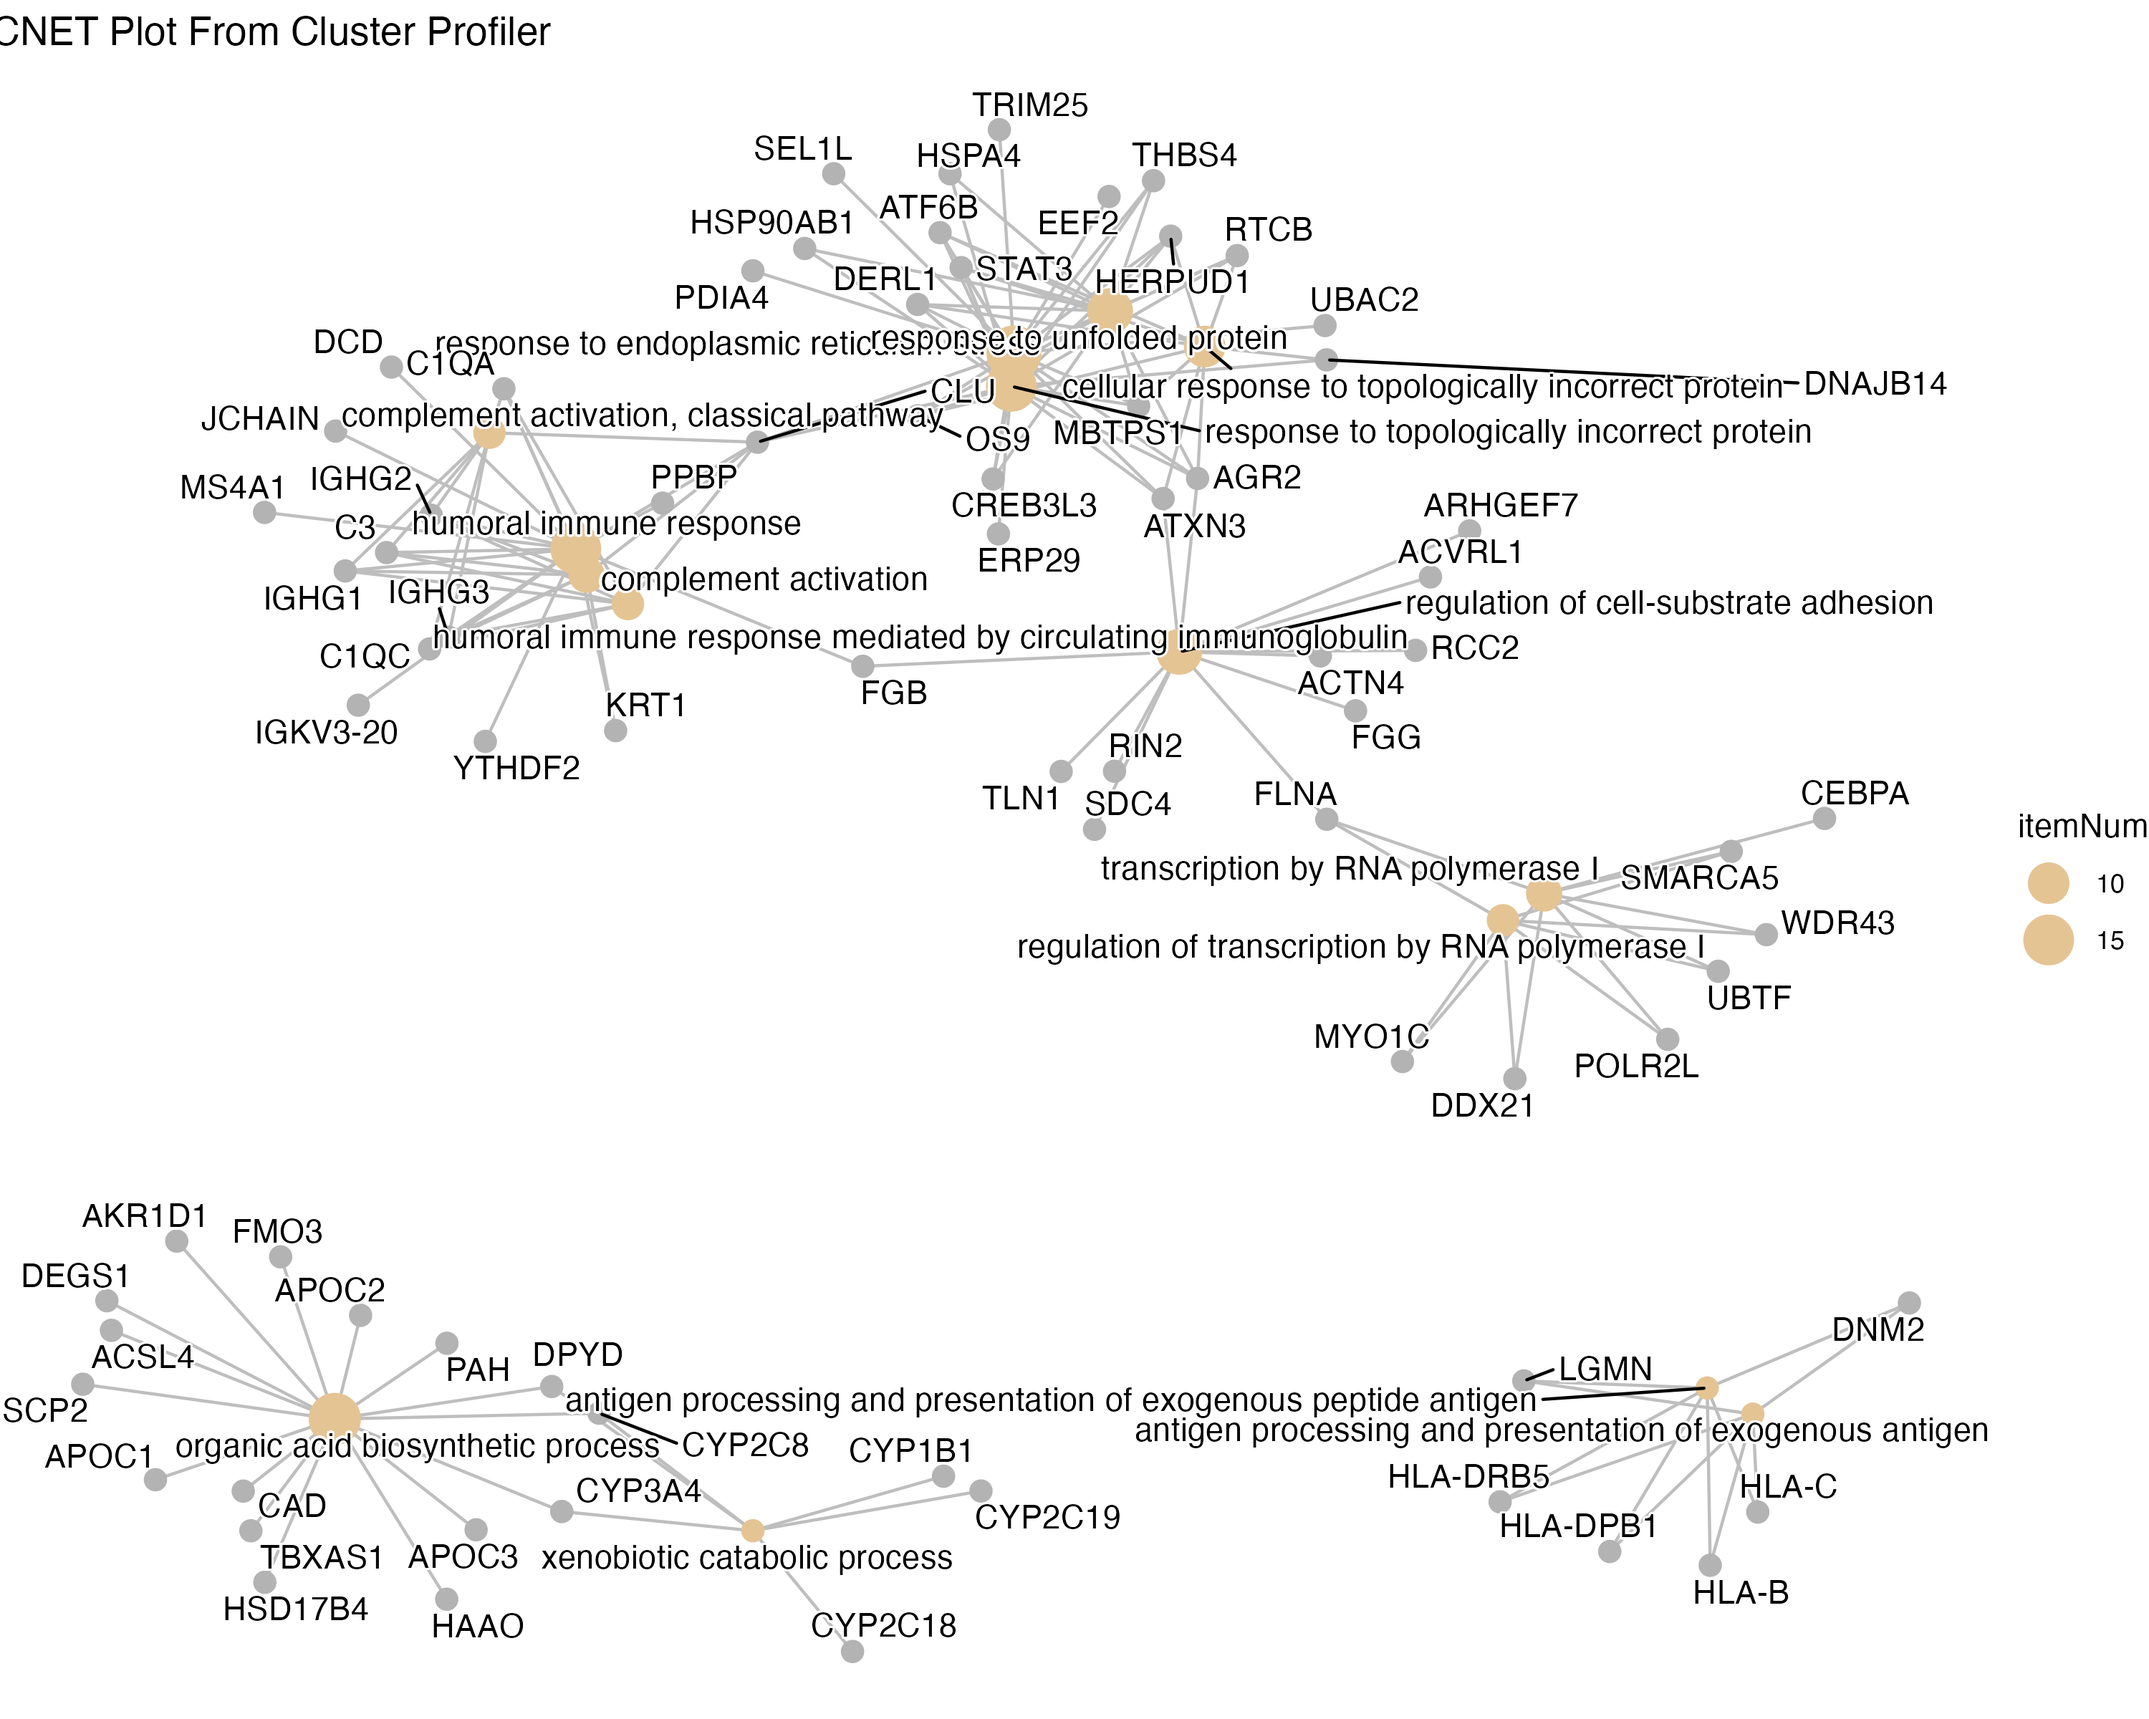
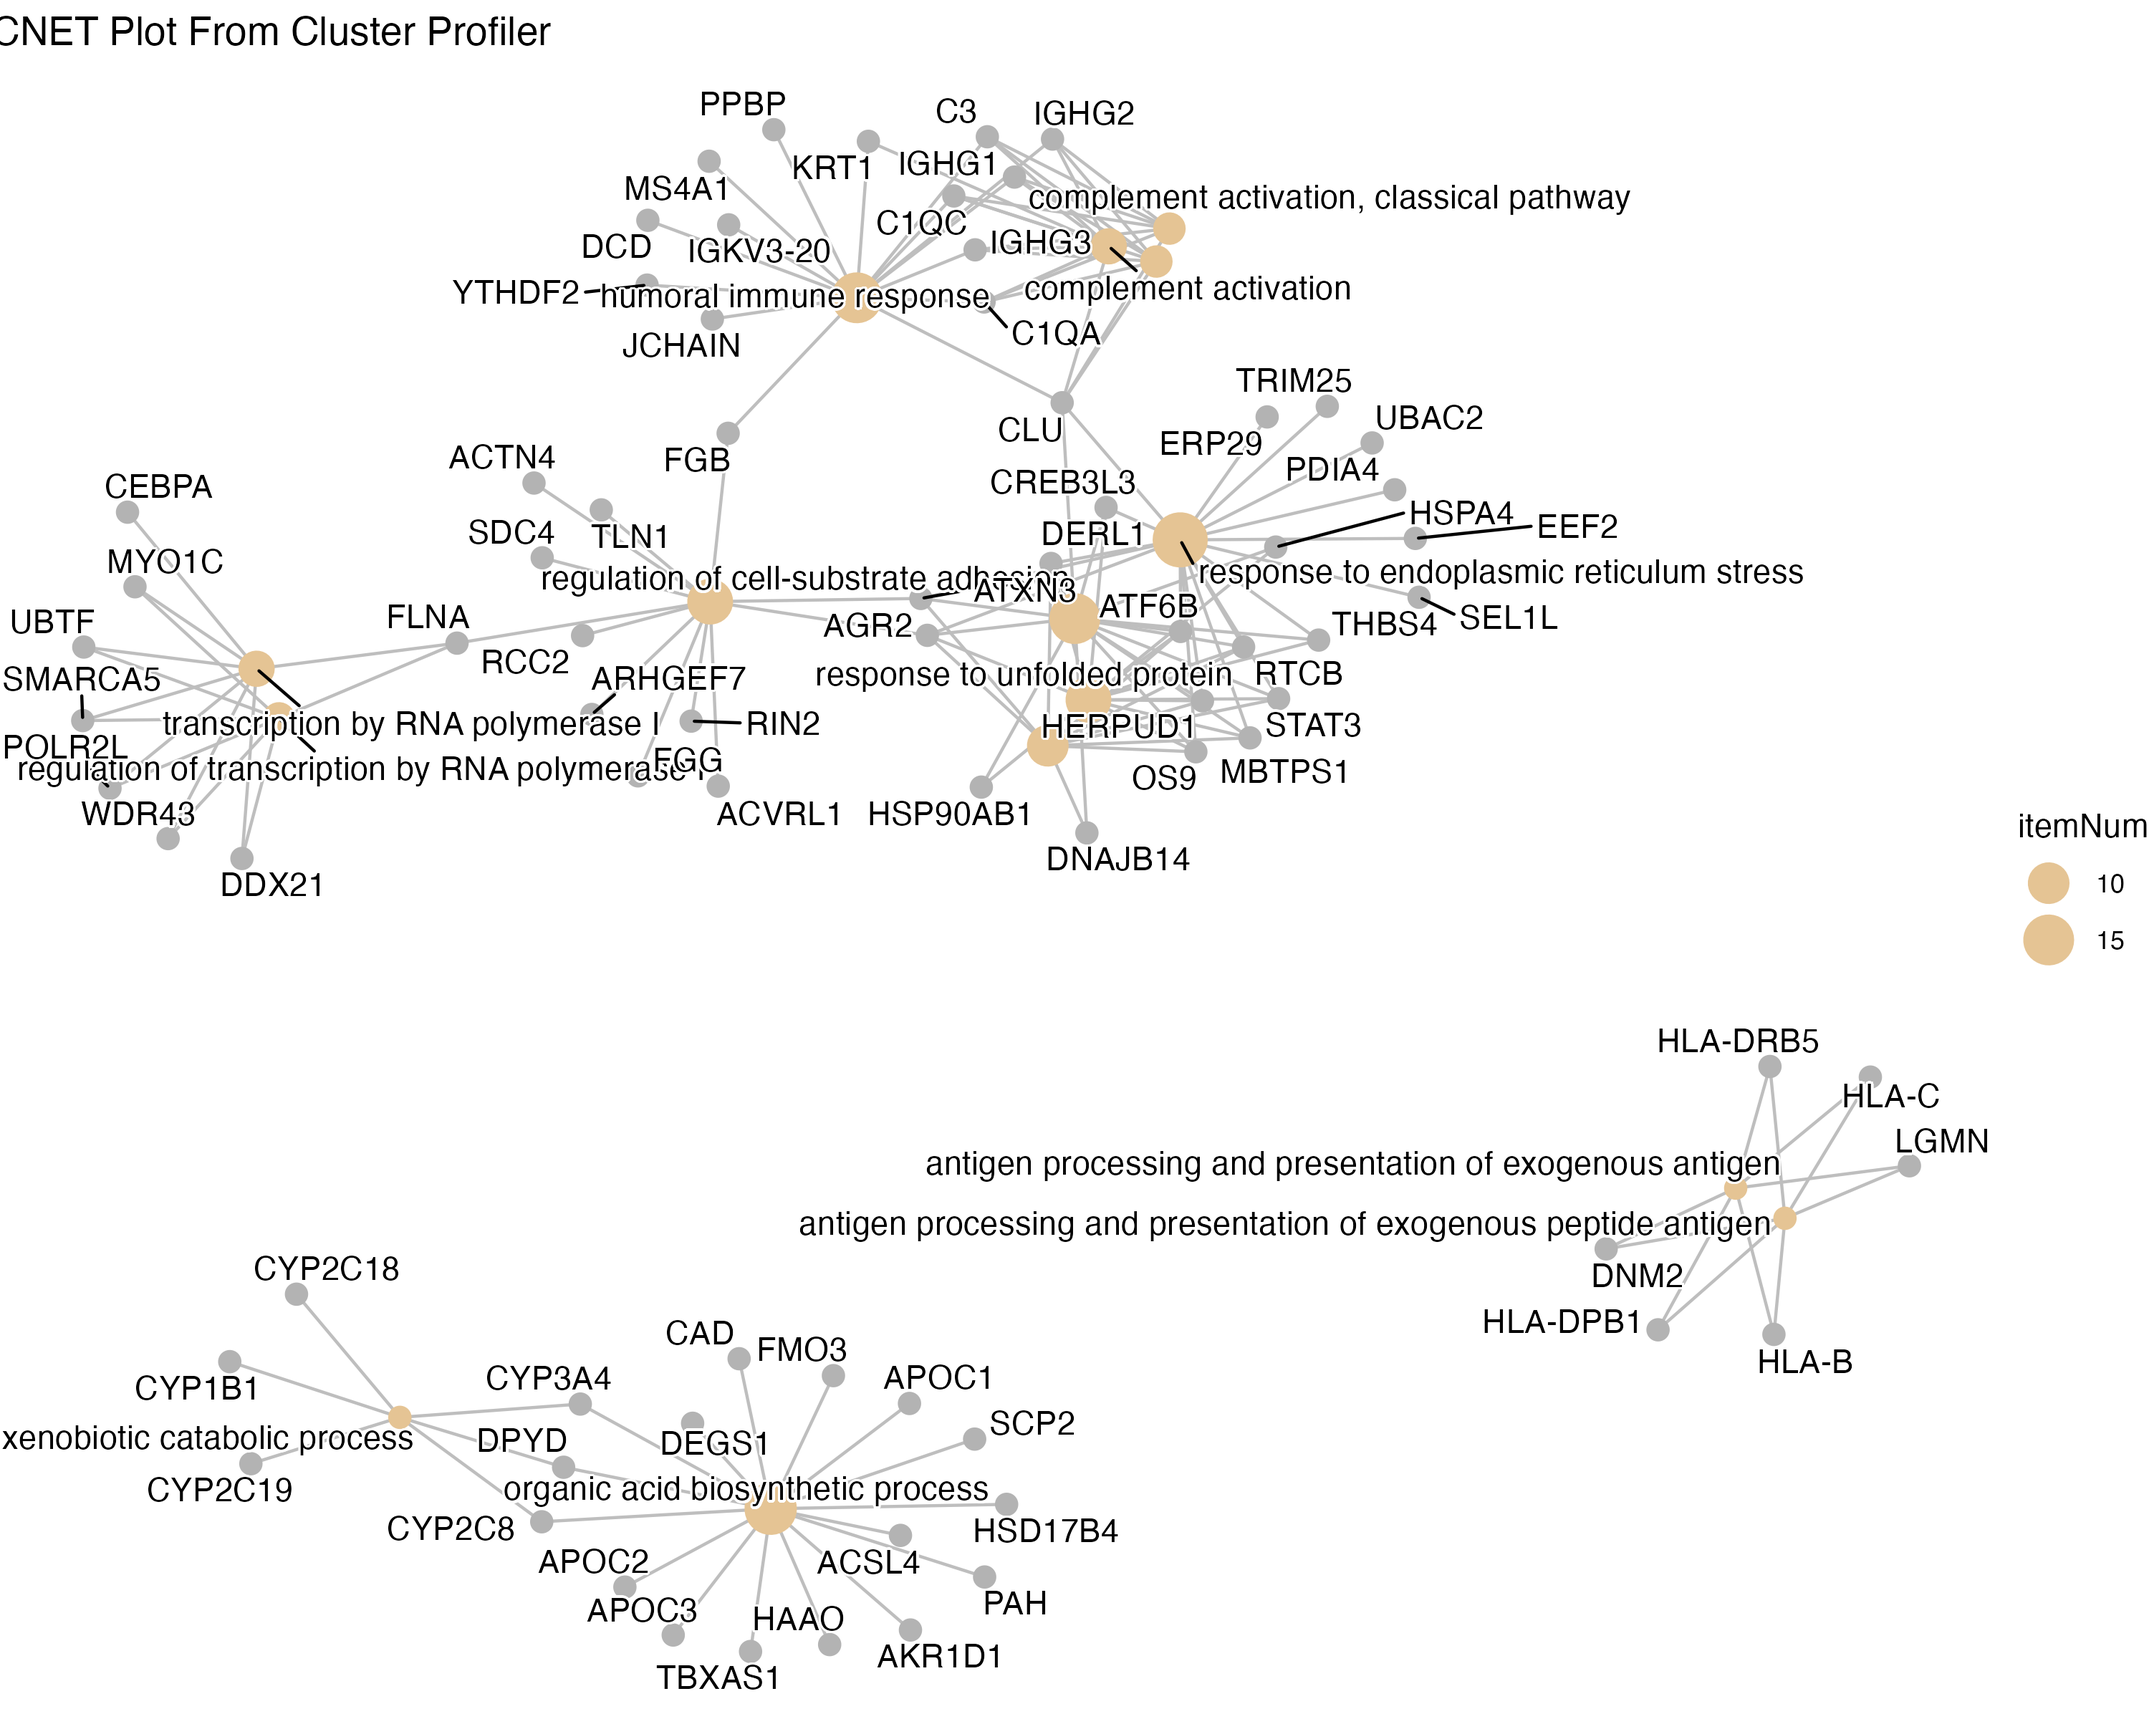
updated conclusion and projects summary

diff --git a/docs/projects/sHLA_covid_peptides.html b/docs/projects/sHLA_covid_peptides.html
@@ -175,7 +175,10 @@ pre > code.sourceCode > span > a:first-child::before { text-decoration: underlin
   <li><a href="#top-15-peptides-with-the-highest-intensity-peaks" id="toc-top-15-peptides-with-the-highest-intensity-peaks" class="nav-link" data-scroll-target="#top-15-peptides-with-the-highest-intensity-peaks">Top 15 Peptides with the Highest Intensity Peaks</a></li>
   </ul></li>
   <li><a href="#use-cluster-profiler-on-for-most-intense-peptides" id="toc-use-cluster-profiler-on-for-most-intense-peptides" class="nav-link" data-scroll-target="#use-cluster-profiler-on-for-most-intense-peptides">Use Cluster Profiler on for Most Intense Peptides</a></li>
-  <li><a href="#conclusions" id="toc-conclusions" class="nav-link" data-scroll-target="#conclusions">Conclusions</a></li>
+  <li><a href="#conclusions" id="toc-conclusions" class="nav-link" data-scroll-target="#conclusions">Conclusions</a>
+  <ul class="collapse">
+  <li><a href="#future-direction" id="toc-future-direction" class="nav-link" data-scroll-target="#future-direction">Future Direction</a></li>
+  </ul></li>
   </ul>
 </nav>
     </div>
@@ -776,11 +779,23 @@ Parsing results... Done.</code></pre>
 <h2 class="anchored" data-anchor-id="conclusions">Conclusions</h2>
 <ul>
 <li>Originally ~2000 peptides were identified, but upon filtering them down there were really only 395 confidently identified peptides that matched documented human database genes/proteins</li>
-<li>No well-documented COVID-19 peptides were able to be identified</li>
-<li></li>
+<li>No well-documented COVID-19 peptides were identified 😔 (there are only 17 well documented proteins for SARS CoV-2 which are all from the Wuhan strain and don’t take into account variants or mutations to proteins)</li>
+<li>Pathway analysis revealed other viral response related proteins to be over-represented in sHLA Class I
+<ul>
+<li>maybe the COVID response related proteins are not as well characterized as others</li>
+<li>sHLA does not slough off into the plasma as well for COVID infected cells or COVID prevents this</li>
+<li>COVID may interfere with class I processing or presentation</li>
+</ul></li>
+</ul>
+<section id="future-direction" class="level3">
+<h3 class="anchored" data-anchor-id="future-direction">Future Direction</h3>
+<ul>
+<li>Currently have another sHLA Class I sample from a COVID infected patient being run on the mass spec set to finish 07/29/2026 <span class="citation" data-cites="10PM">@10PM</span></li>
+<li>Could potentially be a diagnostic of some sort</li>
 </ul>
 
 
+</section>
 </section>
 
 </main> <!-- /main -->

diff --git a/docs/projects.html b/docs/projects.html
@@ -160,8 +160,7 @@ ul.task-list li input[type="checkbox"] {
 <h2 class="anchored" data-anchor-id="final-report">Final Report</h2>
 <section id="my-final-project-for-cell-6351---intro-to-reproducible-data-analysis-using-r" class="level4">
 <h4 class="anchored" data-anchor-id="my-final-project-for-cell-6351---intro-to-reproducible-data-analysis-using-r">My final project for CELL 6351 - Intro to Reproducible Data Analysis Using R</h4>
-<p>Taking COVID-19 infected plasma, immunoaffinity purification using pan class I antibody. Eluting the peptides, running them over HP/LC and LC-MS. Looking for any C…</p>
-<p><strong>Add project summary here</strong></p>
+<p><em>Our lab has obtained plasma samples from patients who were infected with COVID-19 between the months of May and November 2020. We ran the plasma over an immunoaffinity purification column with a pan-class I antibody to extract soluble HLA (sHLA), and we eluted the sHLA in acid to denature the MHC molecules and obtain peptides presented by class I sHLA. The eluate was then run through high-performance liquid chromatography (HPLC) to fractionate based on hydrophobicity and separate peptides from full proteins. Next, the peptide fractions were run on a time-of-flight (TOF) mass spectrometer to identify peptide sequences and their associated proteins and genes with high-resolution mass accuracy. I plan on doing our typical data cleanup pipeline in R, showing the distribution of peptide lengths, source proteins, and genes to see if we can identify any COVID-19 peptides. Next, I will perform a more thorough mining of the data by 1) Identifying the peptides with the largest overall intensity across all fractions and 2) individual peptides with the highest intensity peaks. From these peptides I will look at their source proteins and genes. I will perform a GO Term analysis, KEGG pathway analysis and Reactome analysis on the top 15 most abundant and highest intensity peptides for viral protein or response signatures.</em></p>
 <p><a href="./projects/sHLA_covid_peptides.html"><strong>View Final Report</strong> →</a></p>
 <hr>
 </section>
